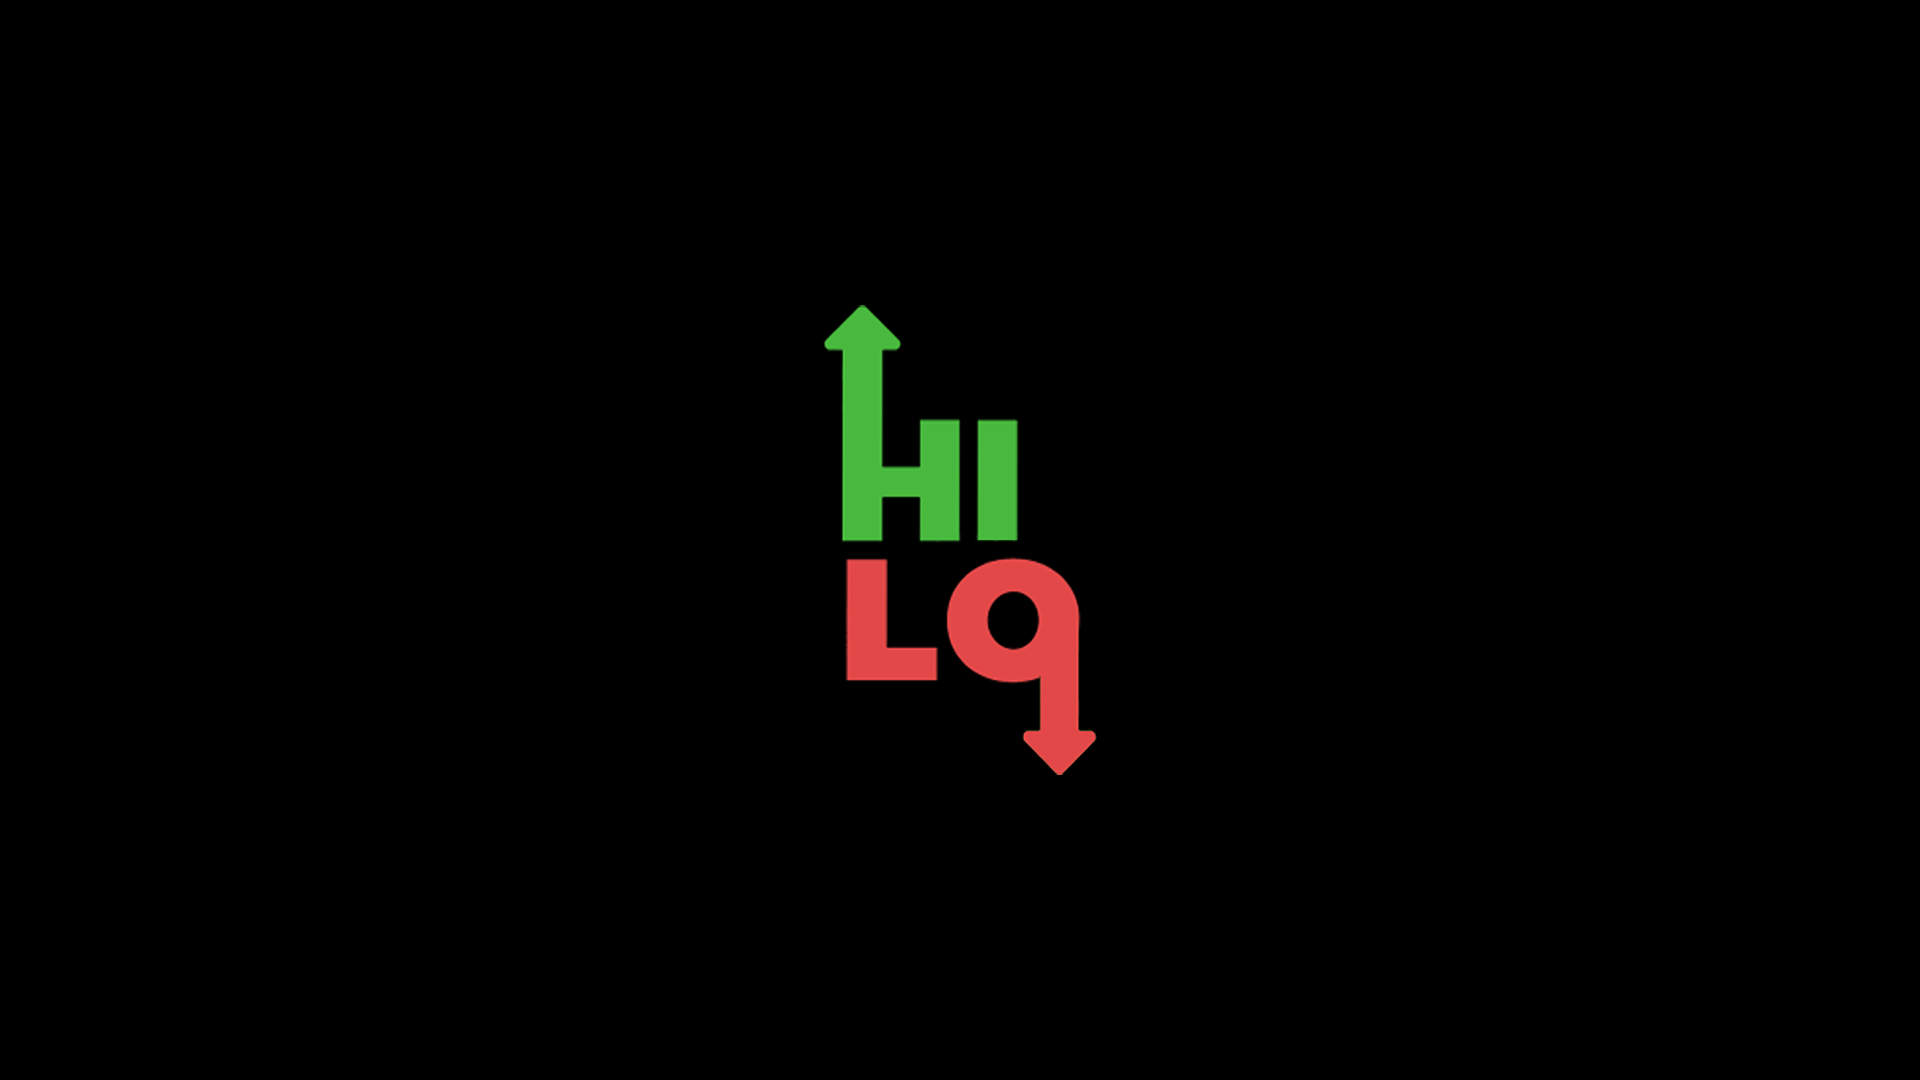
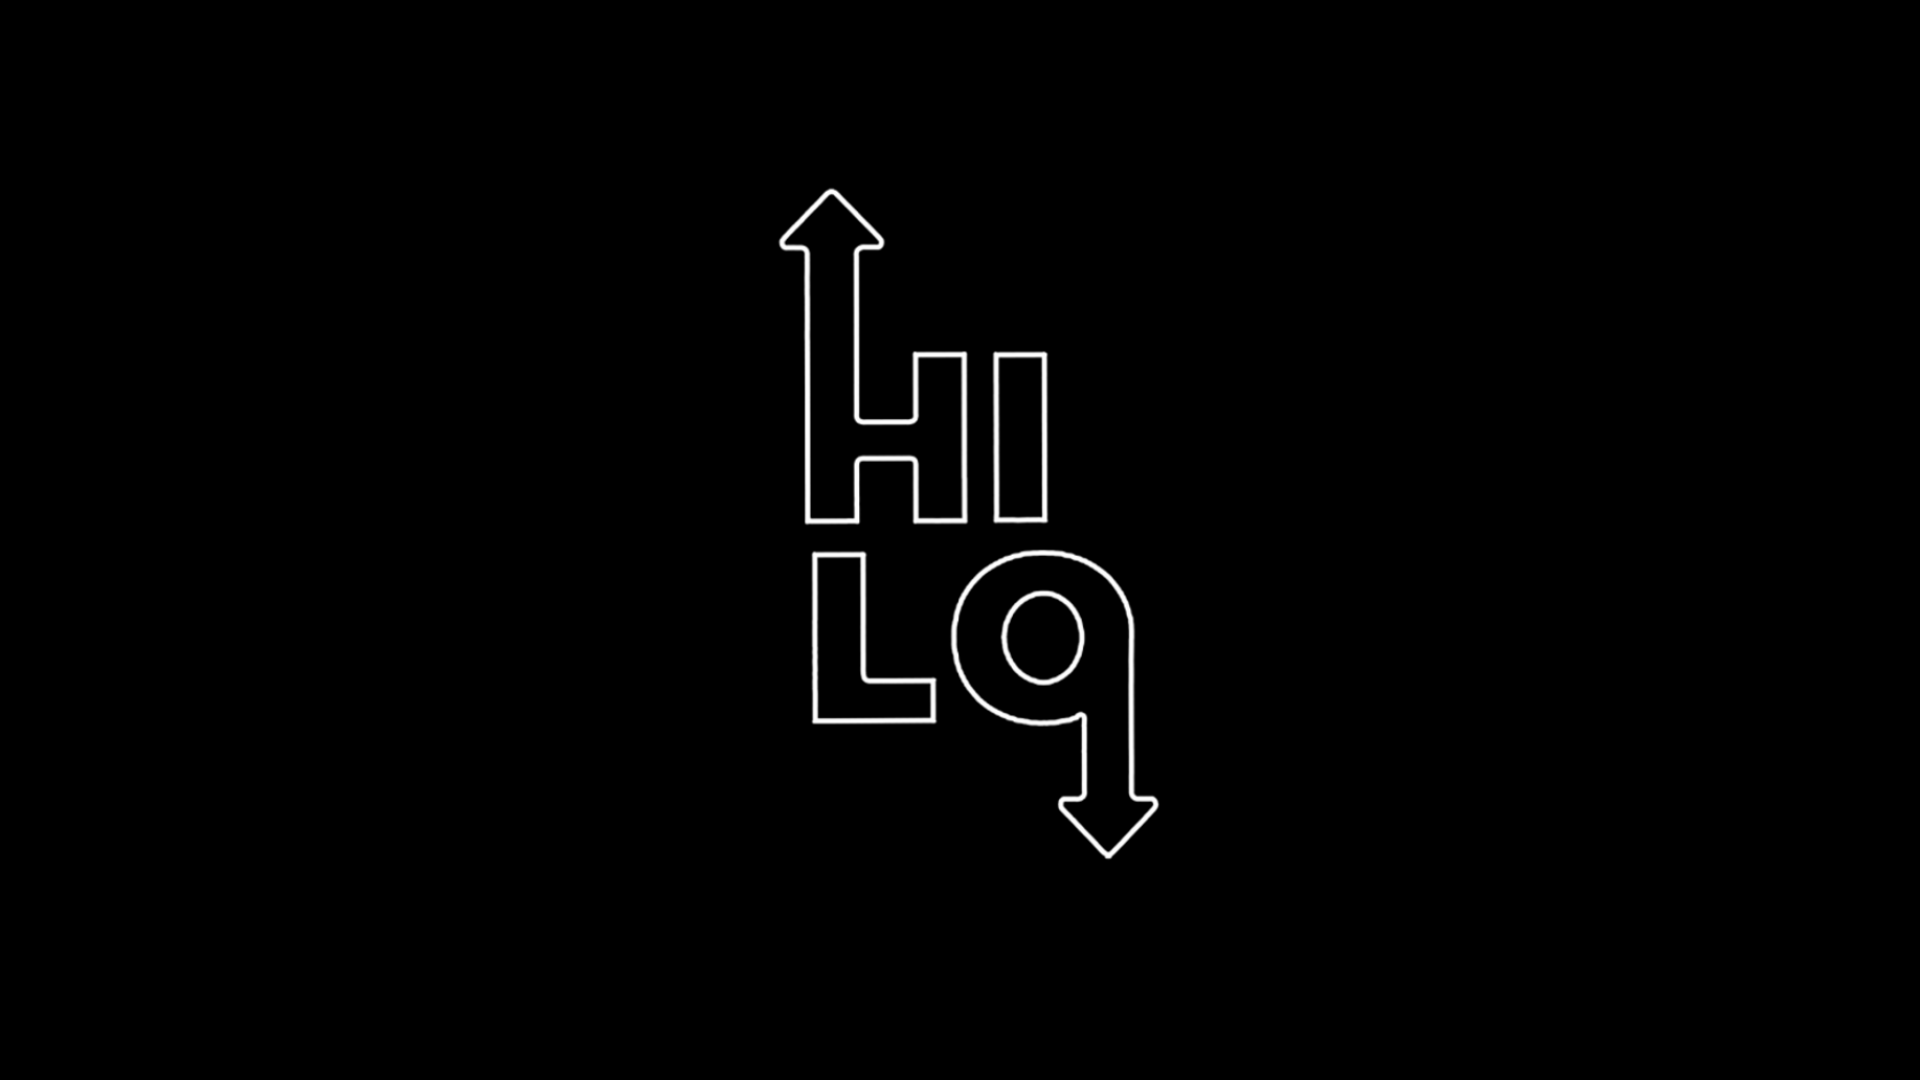
updated hero to new design

Changed region(s): [[0.4062, 0.1833, 0.5938, 0.7639], [0.5938, 0.7333, 0.625, 0.7639], [0.5625, 0.7639, 0.5938, 0.7944]]

diff --git a/static/css/styles.scss b/static/css/styles.scss
@@ -101,13 +101,12 @@ body::-webkit-scrollbar {
    cursor: pointer;
    width: 70px;
    margin: 0 auto;
-   margin-top: 70vh;
    height: 100px;
 }
 
 .arrow:after {
      content: "";
-     margin-top: 70vh;
+     margin-top: 75vh;
      width: 70px;
      height: 100px;
      position: absolute;

diff --git a/static/css/styles.css b/static/css/styles.css
@@ -46,12 +46,11 @@ body::-webkit-scrollbar {
   cursor: pointer;
   width: 70px;
   margin: 0 auto;
-  margin-top: 70vh;
   height: 100px; }
 
 .arrow:after {
   content: "";
-  margin-top: 70vh;
+  margin-top: 75vh;
   width: 70px;
   height: 100px;
   position: absolute;

diff --git a/homepage/models.py b/homepage/models.py
@@ -35,7 +35,7 @@ class Location (models.Model):
 		def drawPic (input, output, font, x, y, text):
 			img = Image.open(input)
 			draw = ImageDraw.Draw(img)
-			draw.text((x,y), text, (255,255,255), font=font)
+			draw.text((x,y), text, font=font, fill=(255,255,255))
 			img.save(output)
 
 		self.slug = slugify(self.name)
@@ -50,10 +50,24 @@ class Location (models.Model):
 
 		output = f'{settings.PROJECT_PATH}/media/heros/hero-{self.slug}.png'
 		mobile_output = f'{settings.PROJECT_PATH}/media/heros/hero-{self.slug}-mobile.png'
-		font = ImageFont.truetype(settings.PROJECT_PATH + static("css/fonts/Shorelines-Script-Bold.otf"), 80)
 
-		drawPic (settings.PROJECT_PATH + static("css/res/hero.png"), output, font, 1050, 450, self.slug)
-		drawPic (settings.PROJECT_PATH + static("css/res/hero-mobile.png"), mobile_output, font, 420, 860, self.slug)
+		font = ImageFont.truetype(settings.PROJECT_PATH + static("css/fonts/Hanson-Bold.ttf"), 42)
+		drawPic(settings.PROJECT_PATH + static("css/res/hero.png"), output, font, 945, 140, self.slug.upper())
+		drawPic(output, output, font, 945, 210, self.slug.upper())
+		drawPic(output, output, font, 945, 270, self.slug.upper())
+		drawPic(output, output, font, 625, 762, self.slug.upper())
+		drawPic(output, output, font, 625, 825, self.slug.upper())
+		drawPic(output, output, font, 625, 895, self.slug.upper())
+		font = ImageFont.truetype(settings.PROJECT_PATH + static("css/fonts/Hanson-Bold.ttf"), 65)
+		drawPic(settings.PROJECT_PATH + static("css/res/hero-mobile.png"), mobile_output, font, 600, 290, self.slug.upper())
+		drawPic(mobile_output, mobile_output, font, 600, 390, self.slug.upper())
+		drawPic(mobile_output, mobile_output, font, 600, 490, self.slug.upper())
+		drawPic(mobile_output, mobile_output, font, 100, 1370, self.slug.upper())
+		drawPic(mobile_output, mobile_output, font, 100, 1470, self.slug.upper())
+		drawPic(mobile_output, mobile_output, font, 100, 1570, self.slug.upper())
+		mobile_img = Image.open(mobile_output)
+		mobile_img.resize((1920, 1080))
+		mobile_img.save(mobile_output)
 
 		output = f'{settings.PROJECT_PATH}/media/results/results-{self.slug}.png'
 		mobile_output = f'{settings.PROJECT_PATH}/media/results/results-{self.slug}-mobile.png'
